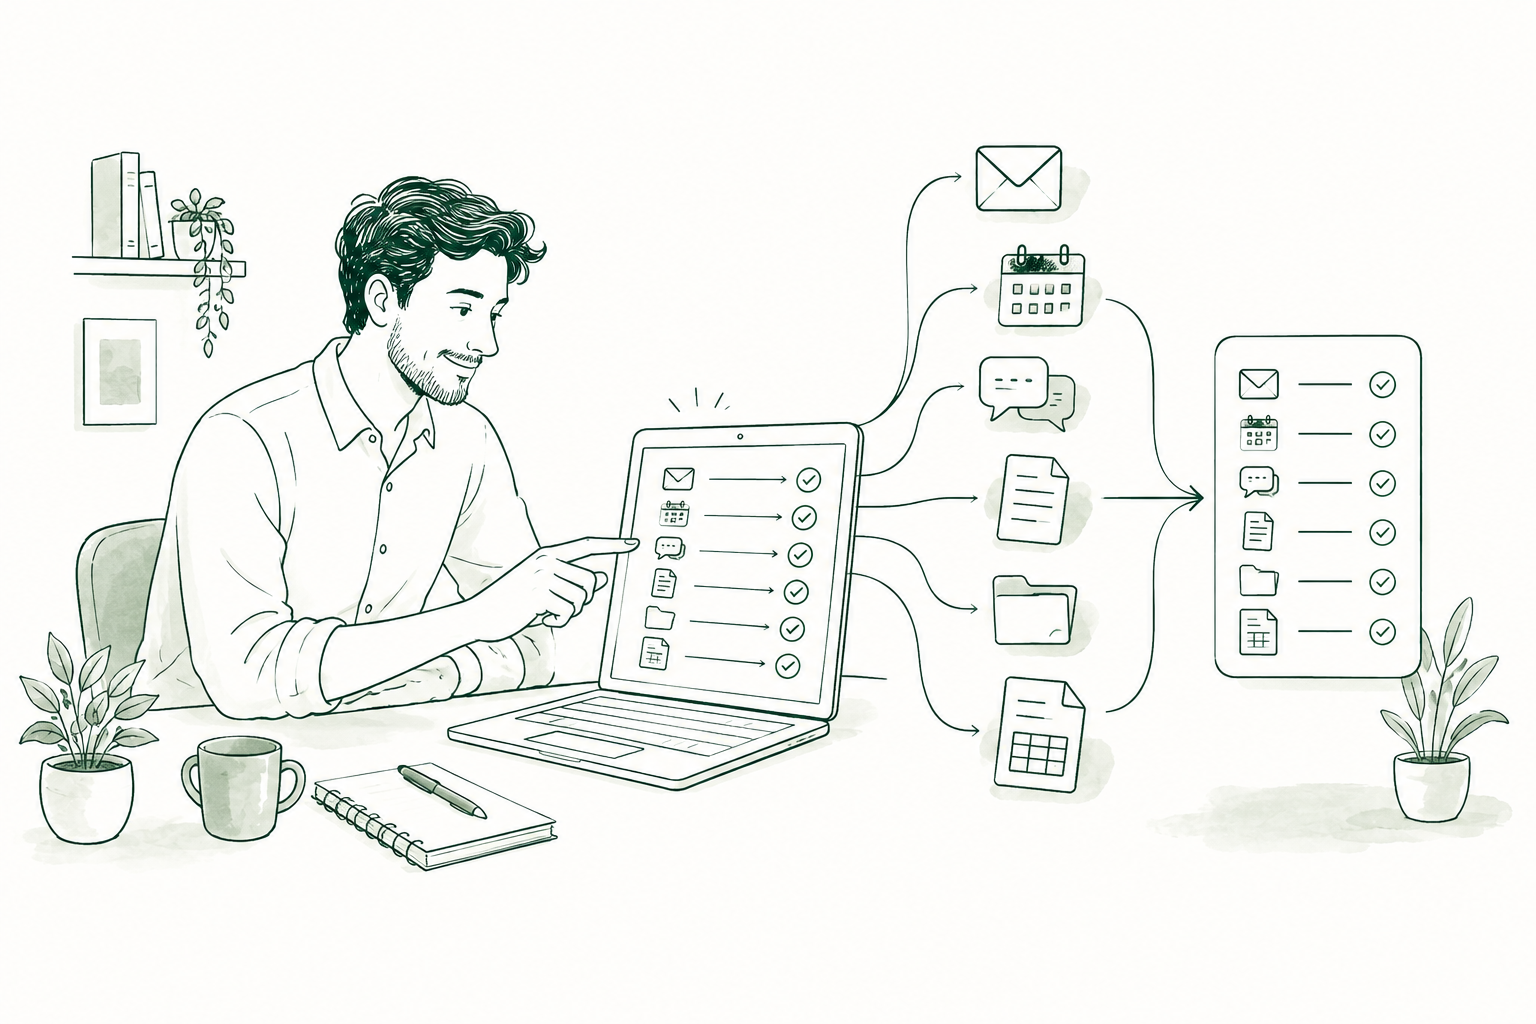
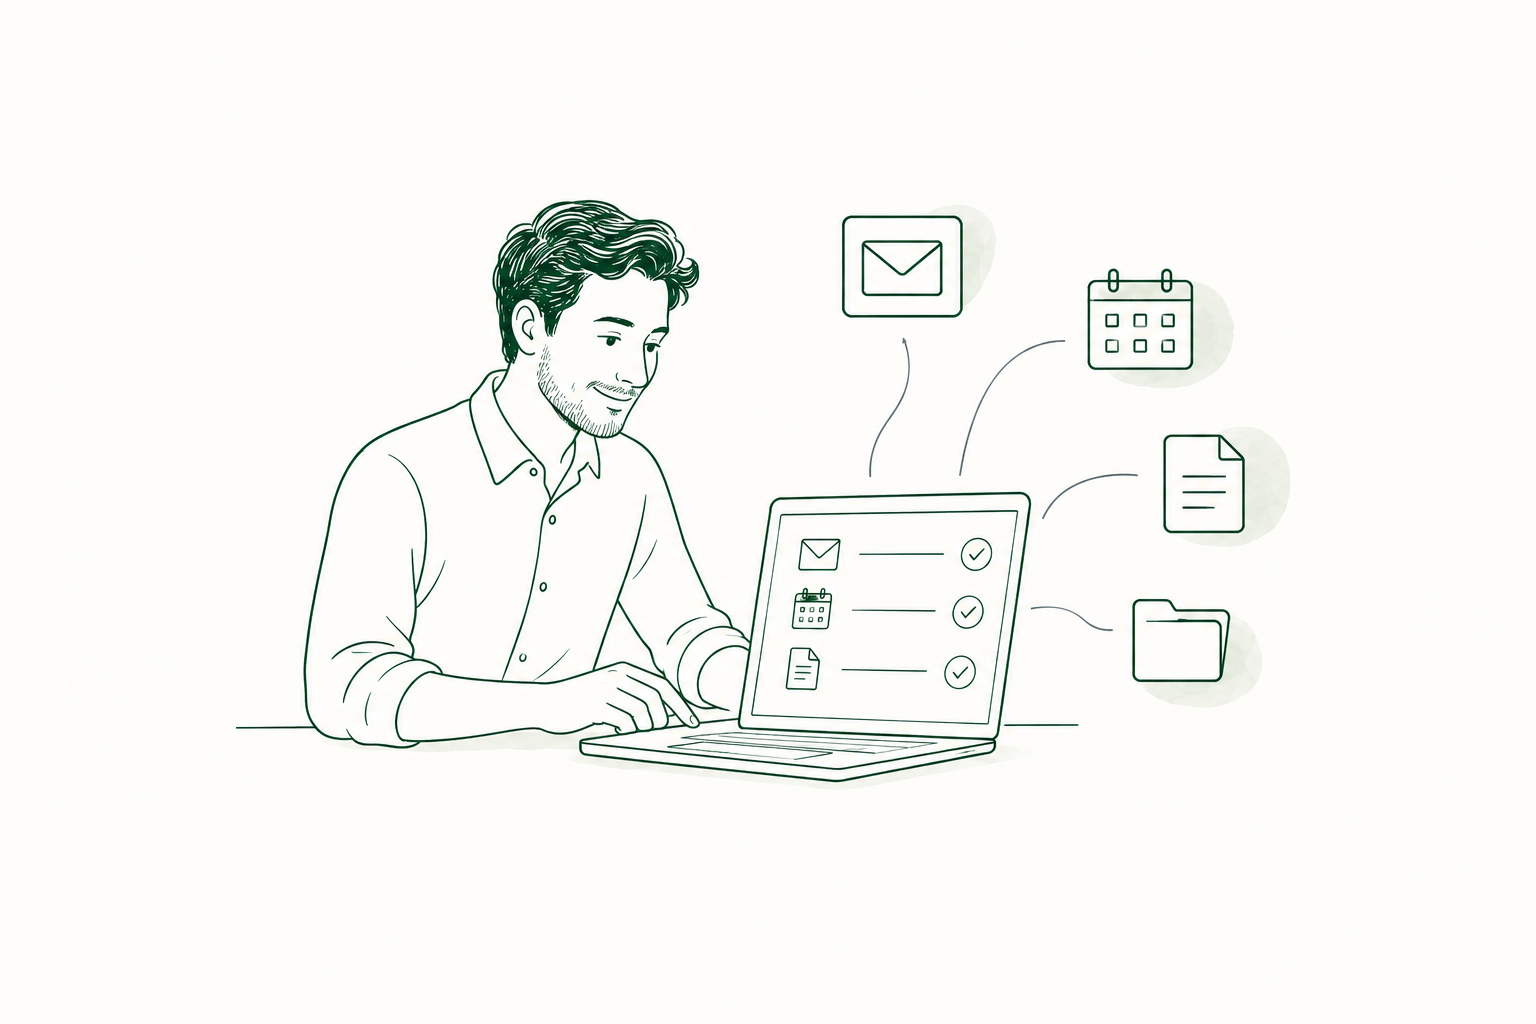
Simplify accompaniment tools section

diff --git a/src/components/MentoratAutomationLandingPage.tsx b/src/components/MentoratAutomationLandingPage.tsx
@@ -214,24 +214,6 @@ export default function MentoratAutomationLandingPage() {
               sizes="(min-width: 1024px) 900px, 92vw"
               className="mx-auto mt-8 h-auto w-full max-w-5xl mix-blend-darken"
             />
-            <p className="mt-5 max-w-4xl text-base font-medium leading-7 text-brand-blue">
-              Nous mettons en place le classement, les modèles, les étapes, les responsables et
-              les relances — directement dans vos outils.
-            </p>
-            <ul className="mt-6 flex flex-wrap gap-2">
-              {content.tools.examples.map((tool) => (
-                <li
-                  key={tool}
-                  className="rounded-full border border-dema-line bg-dema-paper px-4 py-2 text-xs text-dema-muted"
-                >
-                  {tool}
-                </li>
-              ))}
-            </ul>
-            <p className="mt-6 flex max-w-3xl items-start gap-3 rounded-2xl bg-dema-sage/35 px-5 py-4 text-sm leading-6 text-dema-forest">
-              <Check className="mt-1 h-4 w-4 shrink-0" aria-hidden="true" />
-              <span>{content.tools.access}</span>
-            </p>
           </div>
         </section>
 

diff --git a/tests/mentorat-automation-offer.test.ts b/tests/mentorat-automation-offer.test.ts
@@ -82,11 +82,10 @@ describe("Mise en place de systèmes opérationnels", () => {
     expect(landing).not.toContain("4 × 1 heure");
     expect(landing).not.toContain("1 à 3");
     expect(mentoratAutomationContent.tools.title).toBe("Nous travaillons dans vos outils actuels.");
-    expect(mentoratAutomationContent.tools.examples).toContain("Gmail ou Outlook");
-    expect(mentoratAutomationContent.tools.access).toContain("uniquement les accès nécessaires");
-    expect(mentoratAutomationContent.tools.access).not.toContain("codes");
     expect(landing).toContain("/images/accompagnement/outils-organises.png");
-    expect(landing).toContain("Nous mettons en place le classement");
+    expect(landing).not.toContain("Nous mettons en place le classement");
+    expect(landing).not.toContain("Gmail ou Outlook");
+    expect(landing).not.toContain("uniquement les accès nécessaires");
     expect(landing).not.toContain("Votre fonctionnement réel");
     expect(landing).not.toContain("Un système clair");
     expect(landing).not.toContain("Vos outils configurés");

diff --git a/src/lib/mentorat-automation-content.ts b/src/lib/mentorat-automation-content.ts
@@ -69,15 +69,6 @@ export const mentoratAutomationContent = {
     title: "Nous travaillons dans vos outils actuels.",
     description:
       "Nous intervenons directement dans les outils que votre équipe utilise déjà. Un nouvel outil n’est proposé que si l’existant ne permet pas d’obtenir le résultat attendu.",
-    examples: [
-      "Gmail ou Outlook",
-      "Google Drive ou OneDrive",
-      "Notion",
-      "Votre CRM",
-      "Votre outil de devis ou de facturation",
-    ],
-    access:
-      "Vous nous accordez uniquement les accès nécessaires à la mission et vous pouvez les retirer à tout moment.",
   },
   method: [
     {
